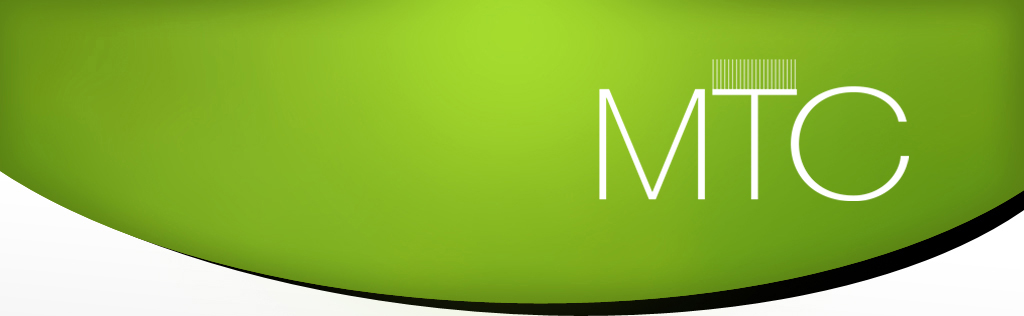
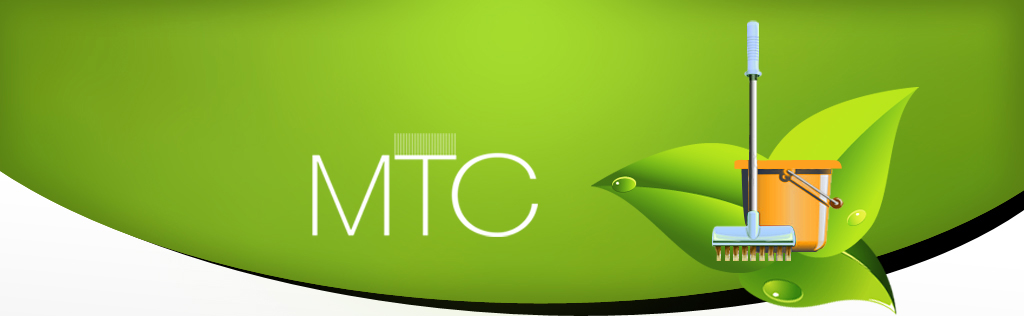
replacing header style, and a clean section

Changed region(s): [[0.5625, 0.057, 0.9062, 0.9968], [0.2812, 0.3987, 0.5312, 0.769]]

diff --git a/public/stylesheets/private.css b/public/stylesheets/private.css
@@ -250,8 +250,8 @@ body #container {
   height: 19.8em;
 }
 #header #menu {
-  padding-top: 105px;
-  margin-bottom: 35px;
+  padding-top: 80px;
+  margin-bottom: 140px;
 }
 #header #menu li {
   display: inline;
@@ -280,22 +280,12 @@ body #container {
   text-decoration: none;
 }
 #header h1 a {
-  color: white;
-  font-size: 3em;
-  font-family: "timess";
-  text-decoration: none;
-  margin-left: 166px;
-}
-#header h1 a #servicios_in {
-  font-size: .7em;
-}
-#header h2 a {
   text-shadow: #b5f22c 0 1px 1px;
   color: #47650b;
   font-family: "timess";
-  font-size: 1.7em;
   text-decoration: none;
-  margin-left: 435px;
+  font-size: 2em;
+  margin-left: 310px;
 }
 
 #post_header {
@@ -500,11 +490,16 @@ body #container {
   line-height: 1.2em;
   margin-bottom: 2em;
 }
-#info_box #clean_section p#caring_bio {
-  color: #666666;
-  font-family: "gabrielle";
-  font-size: 1.5em;
-  line-height: 1em;
+#info_box #clean_section #environment_care {
+  background-image: url("/images/environment_care.png");
+  background-repeat: no-repeat;
+  height: 5em;
+  margin-bottom: 3em;
+  padding: 5.5em 6em 0;
+}
+#info_box #clean_section #environment_care p {
+  font-size: 1.1em;
+  line-height: 1.5em;
 }
 #info_box #clean_section #request a {
   color: #618c15;

diff --git a/public/stylesheets/screen.css b/public/stylesheets/screen.css
@@ -250,8 +250,8 @@ body #container {
   height: 19.8em;
 }
 #header #menu {
-  padding-top: 105px;
-  margin-bottom: 35px;
+  padding-top: 80px;
+  margin-bottom: 140px;
 }
 #header #menu li {
   display: inline;
@@ -280,22 +280,12 @@ body #container {
   text-decoration: none;
 }
 #header h1 a {
-  color: white;
-  font-size: 3em;
-  font-family: "timess";
-  text-decoration: none;
-  margin-left: 166px;
-}
-#header h1 a #servicios_in {
-  font-size: .7em;
-}
-#header h2 a {
   text-shadow: #b5f22c 0 1px 1px;
   color: #47650b;
   font-family: "timess";
-  font-size: 1.7em;
   text-decoration: none;
-  margin-left: 435px;
+  font-size: 2em;
+  margin-left: 310px;
 }
 
 #post_header {
@@ -500,11 +490,16 @@ body #container {
   line-height: 1.2em;
   margin-bottom: 2em;
 }
-#info_box #clean_section p#caring_bio {
-  color: #666666;
-  font-family: "gabrielle";
-  font-size: 1.5em;
-  line-height: 1em;
+#info_box #clean_section #environment_care {
+  background-image: url("/images/environment_care.png");
+  background-repeat: no-repeat;
+  height: 5em;
+  margin-bottom: 3em;
+  padding: 5.5em 6em 0;
+}
+#info_box #clean_section #environment_care p {
+  font-size: 1.1em;
+  line-height: 1.5em;
 }
 #info_box #clean_section #request a {
   color: #618c15;

diff --git a/app/stylesheets/partials/_page.scss b/app/stylesheets/partials/_page.scss
@@ -10,8 +10,8 @@
 //........................................Menu
 
   #menu{
-    padding-top: 105px;
-    margin-bottom: 35px;
+    padding-top: 80px;
+    margin-bottom: 140px;
     li{
       display: inline;
       padding: 5px 15px;
@@ -31,22 +31,12 @@
   }
   h1{
     a{
-      color: white;
-      font-size: 3em;
-      font-family: $title-font-family;
-      text-decoration: none;
-      margin-left: 166px;
-      #servicios_in{font-size: .7em;}
-    }
-  }
-  h2{
-    a{
       @include text-shadow(#b5f22c, 0, 1px, 1px);
       color: #47650b;
       font-family: $title-font-family;
-      font-size: $title-font-size;
       text-decoration: none;
-      margin-left: 435px;
+      font-size: 2em;
+      margin-left: 310px;
     }
   }
 }
@@ -273,11 +263,16 @@
       margin-bottom: 2em;
     }
 
-    p#caring_bio{
-      color: #666666;
-      font-family: "gabrielle";
-      font-size: 1.5em;
-      line-height: 1em;
+    #environment_care{
+      background-image: url("/images/environment_care.png");
+      background-repeat: no-repeat;
+      height: 5em;
+      margin-bottom: 3em;
+      padding: 5.5em 6em 0;
+      p{
+        font-size: 1.1em;
+        line-height: 1.5em;
+      }
     }
 
     #request{
